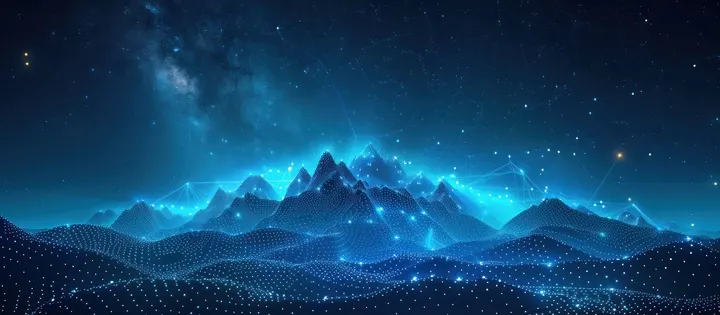
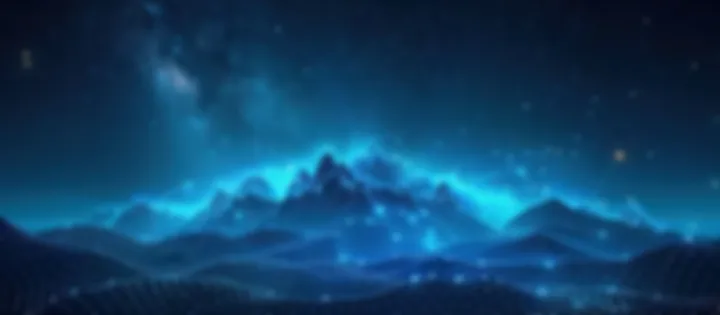
Remove the backdrop-filter over the Story arc
Reported: the crescent disappears while scrolling the landing page.

Not reproducible headless -- a scroll sweep sampling a fixed document row
across 28 offsets returned an identical mean (delta 0.00), and a boosted
capture shows the arc painting correctly at every offset. So the geometry is
right and this is a GPU compositing artifact in the real browser.

A compositing audit sorted by layer area puts two very large layers on top of
each other in exactly the failing region: the Story arc, a 2155x1496
mask-image layer spanning doc-y 852-2348, and the Story backdrop's
backdrop-filter: blur(8px), a 2560x763 layer spanning 1242-2005.
backdrop-filter forces the browser to snapshot everything painted beneath it
and re-sample on scroll, which over a 3.2-megapixel masked layer is the
classic recipe for dropped tiles in Chromium/Edge.

The comp's 8px blur is now baked into story-bg.webp (sigma 3.3 in the source,
which is 8px at the 1440 design width after the bg-cover upscale) and the
filter element is gone. Measured cost on the story band: mean absolute delta
1.78/255, 3.9% of subpixels differing by more than 3, row tone within 1.6,
differences confined to the photo area. Asset 27KB -> 7KB.

This fix is reasoned, not observed -- it needs confirming in the browser that
showed the problem. The pricing cards' backdrop-filter is far smaller and not
over an arc; left alone, but noted as the next thing to try.

Claude-Session: https://claude.ai/code/session_01KfYakrjYioCf2GkmXMLTWz

diff --git a/src/components/Story.tsx b/src/components/Story.tsx
@@ -4,11 +4,16 @@ import { story } from "@/lib/data";
 export default function Story() {
   return (
     <section id="story" data-verify="story" className="relative z-10">
-      {/* Backdrop photo with fade to surface (Figma 25:8531 + 23:8529) */}
+      {/* Backdrop photo with fade to surface (Figma 25:8531 + 23:8529).
+          The comp's 8px blur is baked into the asset rather than applied as a
+          backdrop-filter. The filter was a 2560x763 compositing layer sitting
+          directly over the 2155x1496 masked arc below it, and backdrop-filter
+          has to snapshot everything painted beneath it on every scroll —
+          which is what made the crescent vanish mid-scroll in Chromium.
+          See docs/DEVIATIONS.md. */}
       <div aria-hidden className="pointer-events-none absolute inset-x-0 top-0 h-[763px]">
         <div className="absolute inset-0 bg-[url(/images/story-bg.webp)] bg-cover bg-top opacity-90" />
         <div className="absolute inset-0 bg-linear-to-b from-surface/40 to-75% to-surface" />
-        <div className="absolute inset-0 backdrop-blur-[8px]" />
       </div>
       {/* Background ellipse arc (Figma 32:8667, flipped). Native 2155x1496
           SVG canvas, unclipped so the arc washes into the neighbouring
